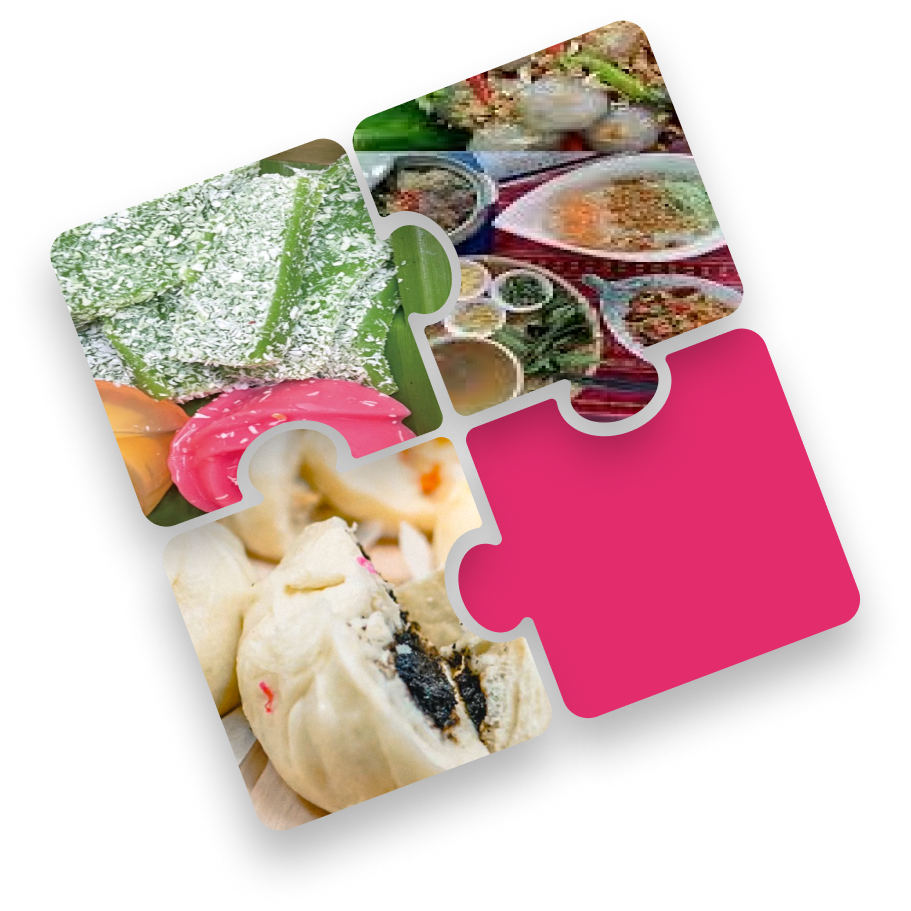
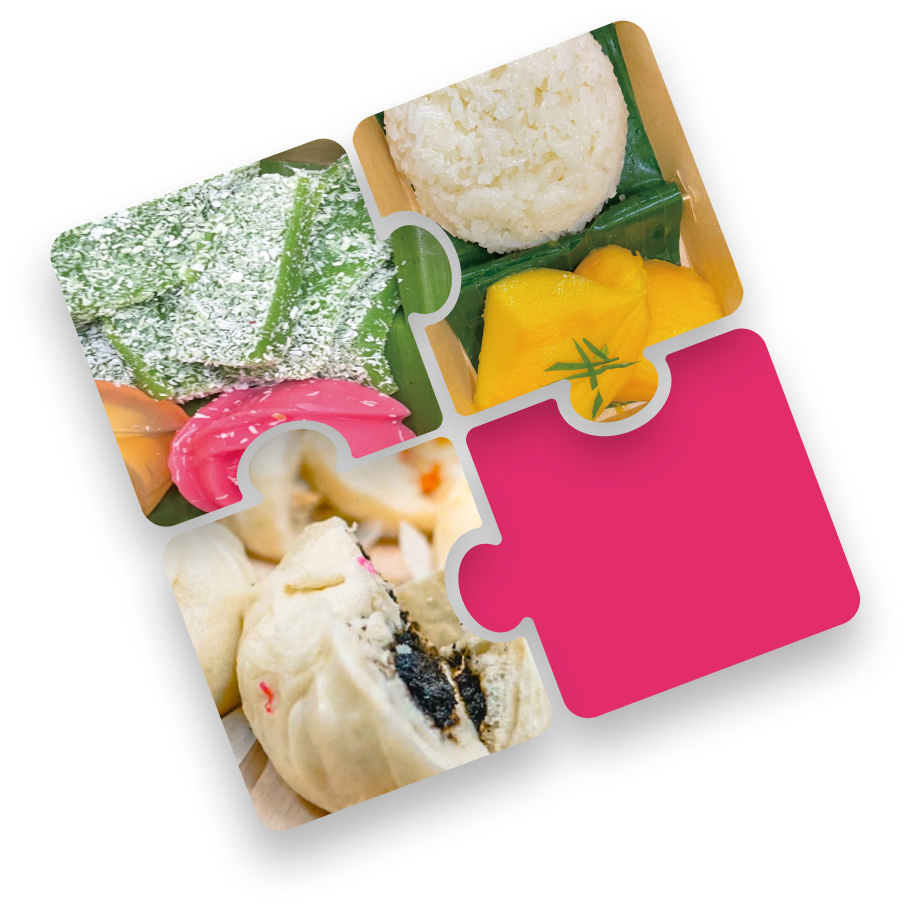
about us update

Changed region(s): [[0.3688, 0.0, 0.8299, 0.461]]

diff --git a/public/assets/css/register.css b/public/assets/css/register.css
@@ -335,7 +335,7 @@ header{
 }
 
 .main-bg2 {
-    background: linear-gradient(0deg, rgba(0, 0, 0, 0.60) 0%, rgba(0, 0, 0, 0.60) 100%), url("../img/register_bg1.jpg") center/cover no-repeat, lightgray;
+    background: linear-gradient(0deg, rgba(0, 0, 0, 0.60) 0%, rgba(0, 0, 0, 0.60) 100%), url("../img/reg-pic.jpg") center/cover no-repeat, lightgray;
 }
 
 

diff --git a/public/assets/css/nav.css b/public/assets/css/nav.css
@@ -1,3 +1,7 @@
+html{
+    scroll-behavior: smooth;
+}
+
 nav {
     height: 3.375rem;
     border-bottom: 1px solid rgba(0, 0, 0, 0.40);

diff --git a/resources/views/about-us.blade.php b/resources/views/about-us.blade.php
@@ -12,7 +12,7 @@
     <div class="ALL">
         <div class="justify-center flex-row align-center area1">
             <div class="us-img1">
-                <img class="img1" src="{{ asset('assets/img/m-g.jpg') }}" alt="">
+                <img class="img1" src="{{ asset('assets/img/m-g.png') }}" alt="">
             </div>
             <div class="us-text1">
                 <h1 class="HeadLine bold">關於我們</h1>
@@ -53,7 +53,7 @@
 
         <div class="area4">
             <div class="area5">
-                <img class="area5-img1" src="{{ asset('assets/img/r19.jpg') }}" alt="">
+                <img class="area5-img1" src="{{ asset('assets/img/cy.jpg') }}" alt="">
                 <div class="area5-text">
                     <h3 class="Main-Titlecontent">產業發展</h3>
                     <p class="content t-p">透過導覽活動規劃與推廣，利用在地現有之資源，建構符合市場需求形態之導覽活動，以吸引遊客到訪，促進地方產業發展。</p>
@@ -64,7 +64,7 @@
                     <h3 class="Main-Titlecontent">地方創生</h3>
                     <p class="content t-p">在活動中培訓在地或對地方創生產業之人員，成為市場地方創生之生力軍。</p>
                 </div>
-                <img class="area5-img1" src="{{ asset('assets/img/i32.jpg') }}" alt="">
+                <img class="area5-img1" src="{{ asset('assets/img/dc.jpg') }}" alt="">
             </div>
         </div>
     @endsection

diff --git a/app/Http/Controllers/adminHandleController.php b/app/Http/Controllers/adminHandleController.php
@@ -407,9 +407,6 @@ class adminHandleController extends Controller
     public function settingsInit(Request $request)
     {
         $settings = wn_web_setting::all();
-
-        dd($settings);
-
         if (!$settings) {
             $data = [
                 [
